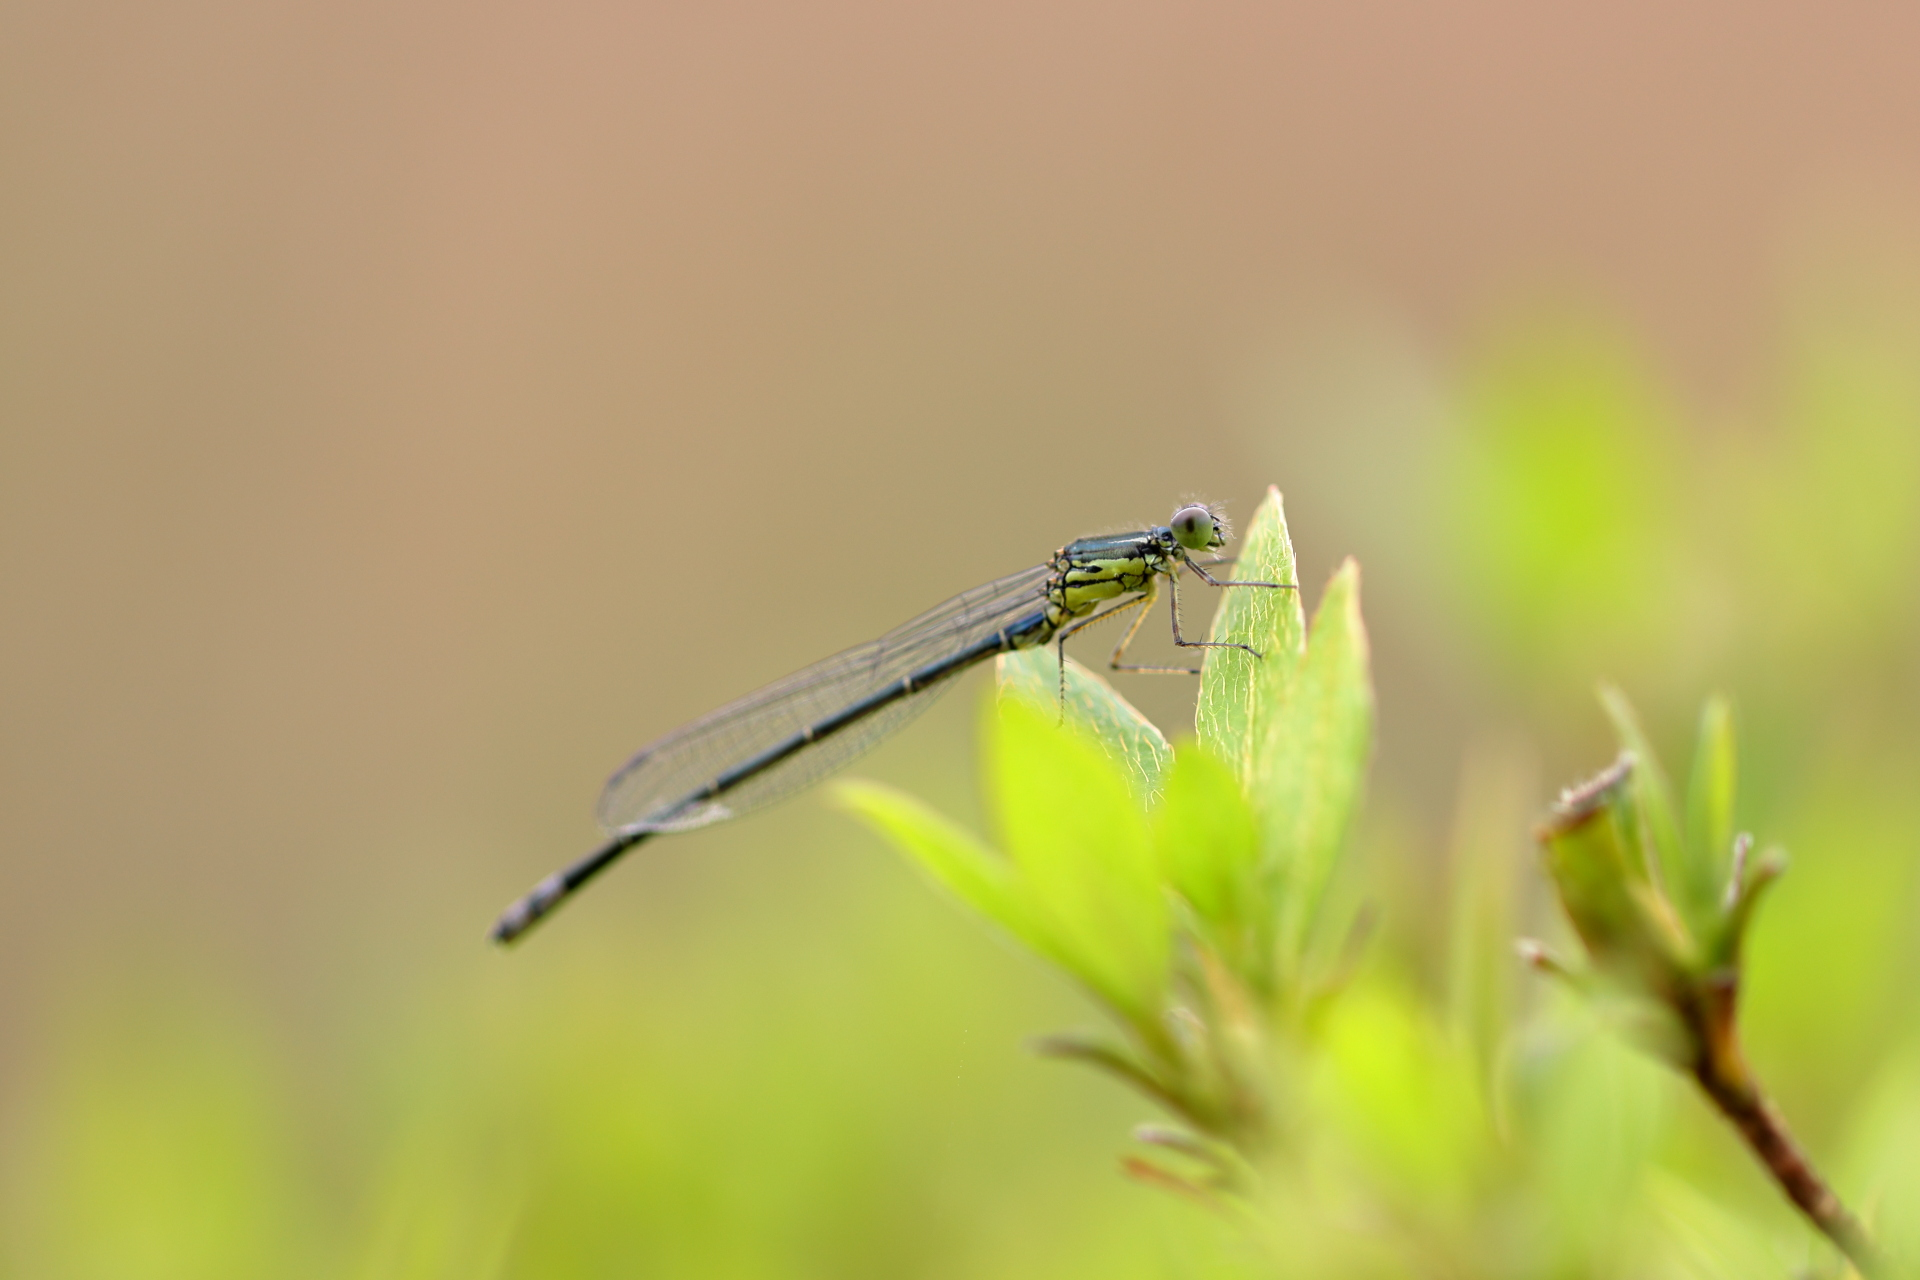
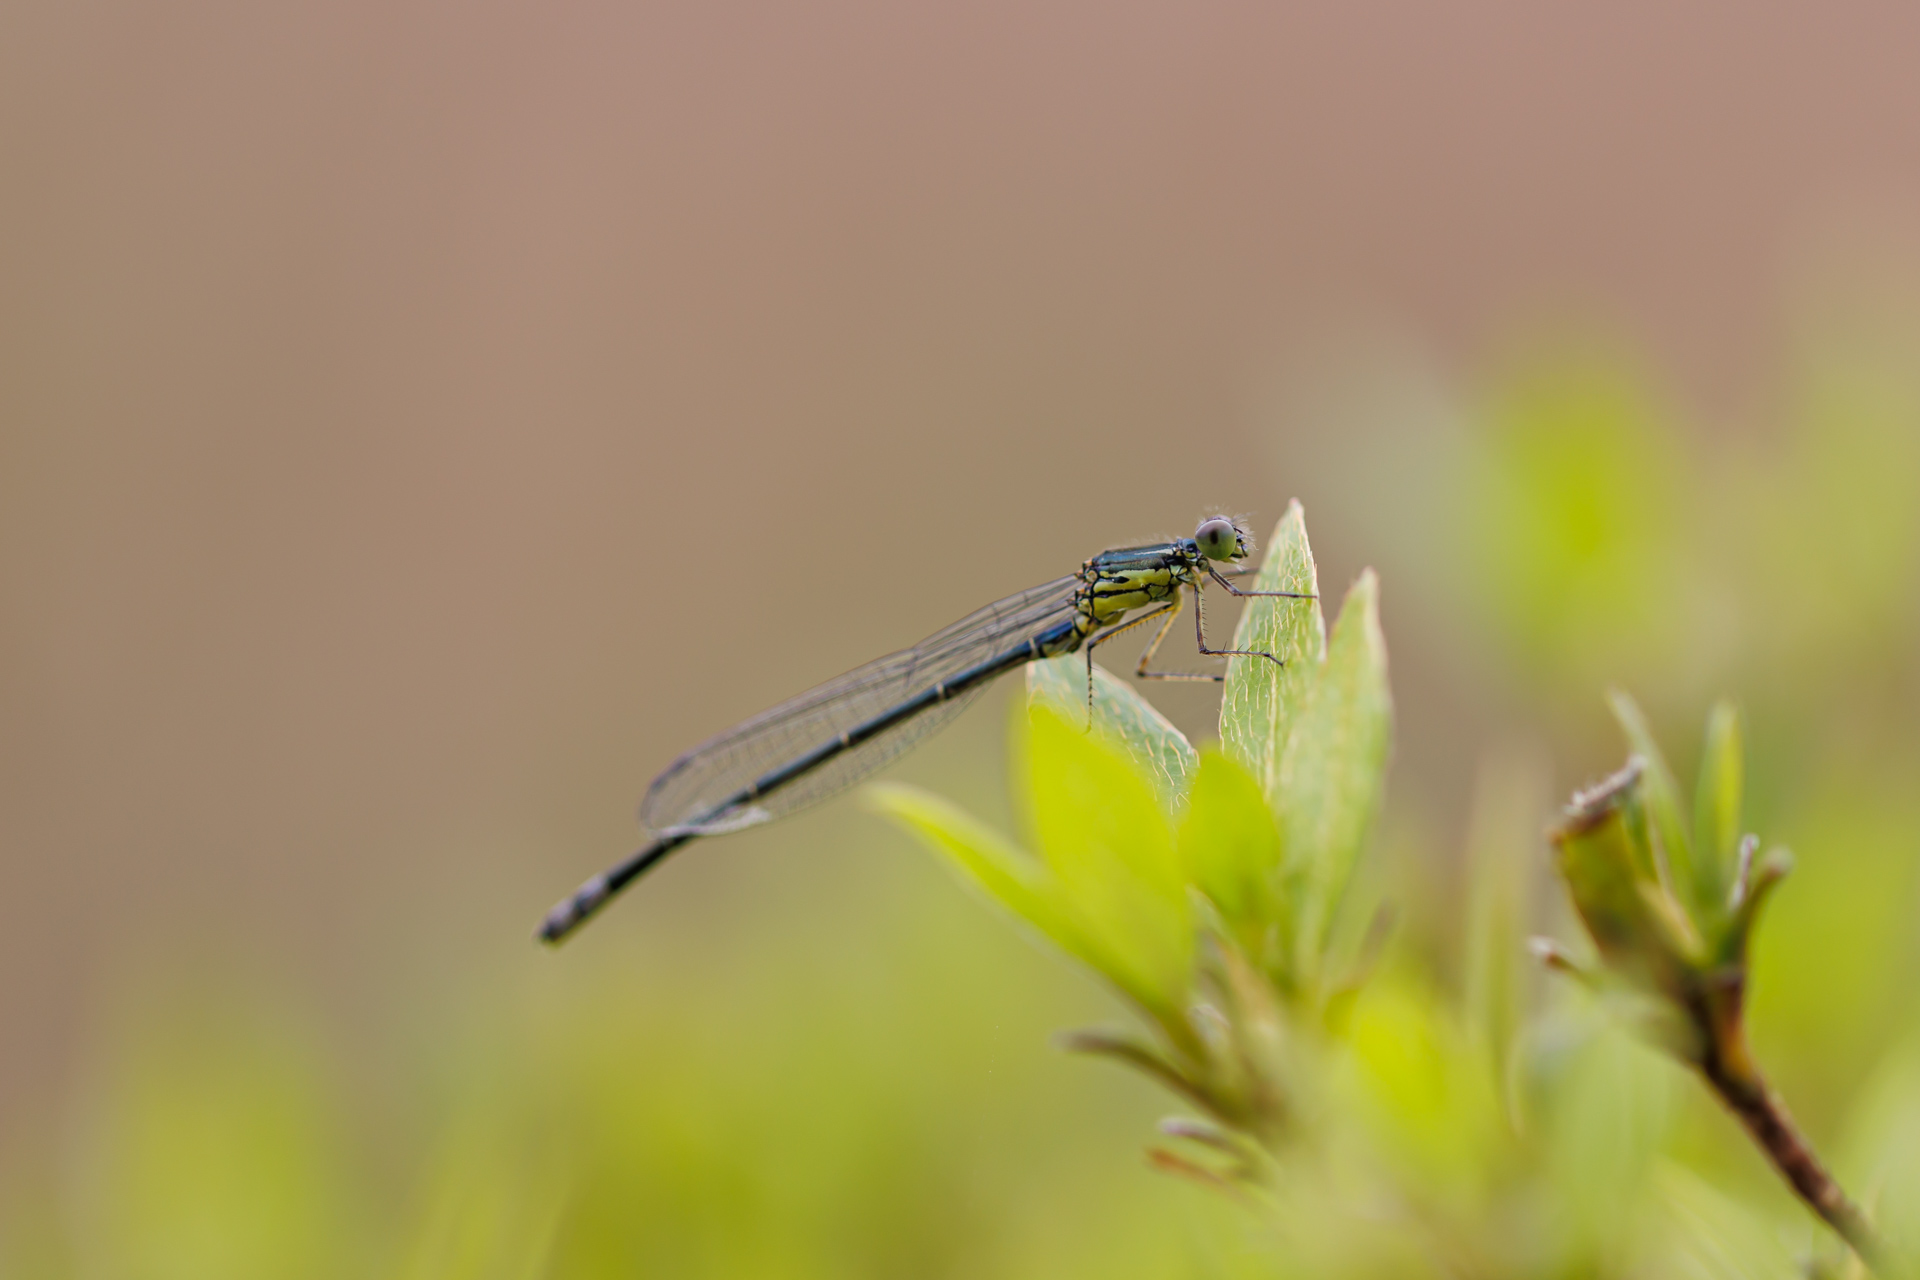
Modify photo

diff --git a/index.html b/index.html
@@ -48,8 +48,8 @@
                     <p>2022年4月24日 クロイトトンボ ♂ 未成熟 埼玉県<br>Canon EOS R6, EF100mm F2.8L Macro IS USM, 1/500, F2.8, ISO 100</p>
                 </div>
                 <div>
-                    <img src="./img/20220424_ajiaitotonbo_0374.jpg">
-                    <p>2022年4月24日 アジアイトトンボ 埼玉県<br>Canon EOS R6, EF100mm F2.8L Macro IS USM, 1/400, F4.0, ISO 250</p>
+                    <img src="./img/20220424_ajiaitotonbo_0368.jpg">
+                    <p>2022年4月24日 アジアイトトンボ 埼玉県<br>Canon EOS R6, EF100mm F2.8L Macro IS USM, 1/500, F2.8, ISO 200</p>
                 </div>
             </article>
         </main>
